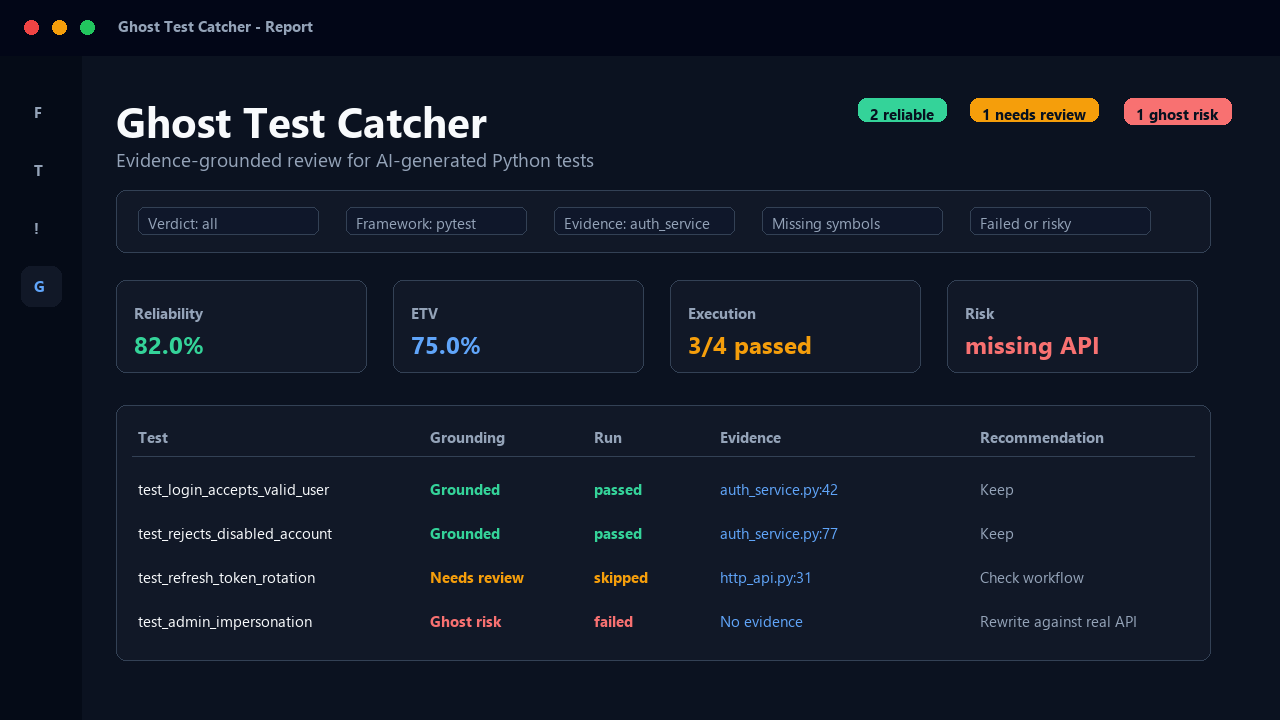
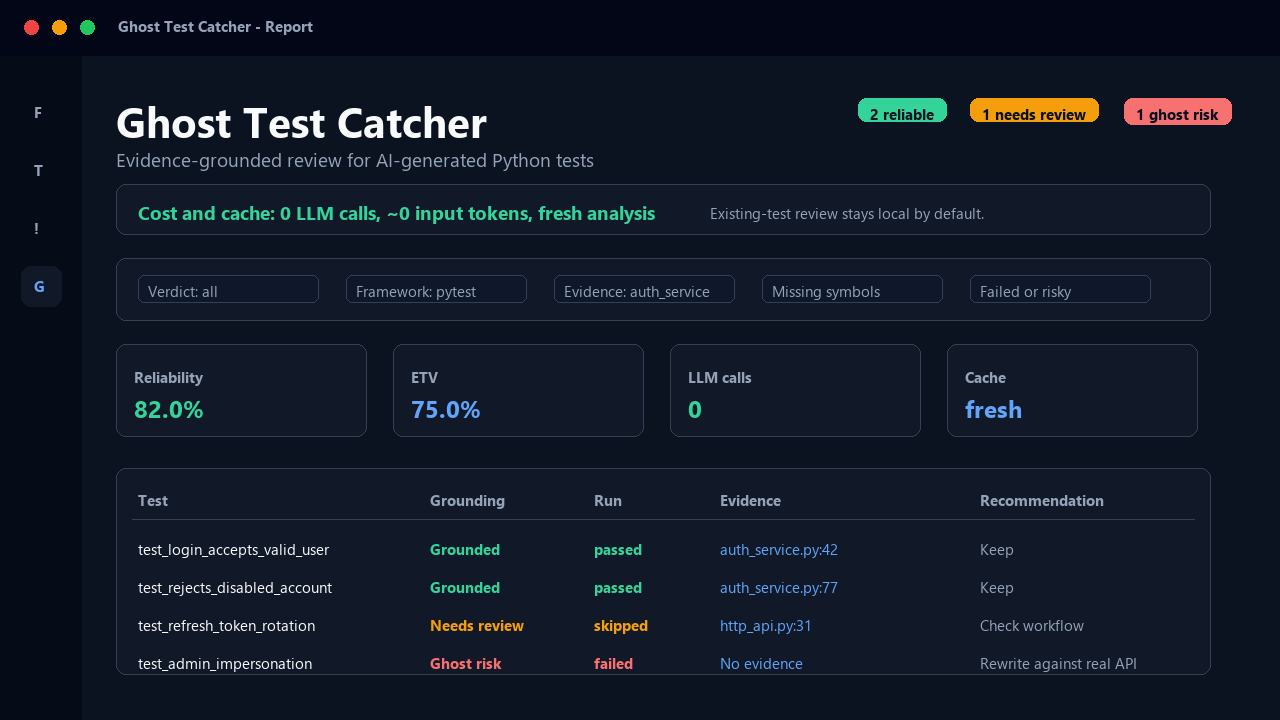
Improve setup detection and package VS Code extension 0.2.1

diff --git a/packages/vscode-extension/extensionCore.js b/packages/vscode-extension/extensionCore.js
@@ -143,10 +143,19 @@ function shellArg(value) {
   return `'${value.replace(/'/g, "'\\''")}'`;
 }
 
-function defaultPythonCandidates(configuredPythonPath) {
+function defaultPythonCandidates(configuredPythonPath, root = "", environment = process.env) {
   const seen = new Set();
   const candidates = [];
-  for (const value of [configuredPythonPath, "python", "python3"]) {
+  const configured = String(configuredPythonPath || "").trim();
+  const explicitConfigured = configured && !isGenericPythonCommand(configured);
+  const values = [
+    ...(explicitConfigured ? [configured] : []),
+    ...localPythonCandidates(root, environment),
+    configured || "python",
+    "python",
+    "python3",
+  ];
+  for (const value of values) {
     const candidate = String(value || "").trim();
     if (!candidate || seen.has(candidate)) {
       continue;
@@ -155,6 +164,47 @@ function defaultPythonCandidates(configuredPythonPath) {
     candidates.push(candidate);
   }
   return candidates;
+}
+
+function localPythonCandidates(root = "", environment = process.env) {
+  const candidates = [];
+  const seen = new Set();
+  const envRoots = [
+    environment?.VIRTUAL_ENV,
+    environment?.CONDA_PREFIX,
+  ];
+  const projectRoots = root
+    ? [".venv", "venv", ".env", "env"].map((name) => path.join(root, name))
+    : [];
+
+  for (const candidateRoot of [...envRoots, ...projectRoots]) {
+    const resolvedRoot = String(candidateRoot || "").trim();
+    if (!resolvedRoot || seen.has(resolvedRoot)) {
+      continue;
+    }
+    seen.add(resolvedRoot);
+    for (const executable of pythonExecutablesInEnvironment(resolvedRoot)) {
+      if (fs.existsSync(executable)) {
+        candidates.push(executable);
+        break;
+      }
+    }
+  }
+  return candidates;
+}
+
+function pythonExecutablesInEnvironment(environmentRoot) {
+  return [
+    path.join(environmentRoot, "Scripts", "python.exe"),
+    path.join(environmentRoot, "Scripts", "python"),
+    path.join(environmentRoot, "bin", "python"),
+    path.join(environmentRoot, "bin", "python3"),
+  ];
+}
+
+function isGenericPythonCommand(command) {
+  const normalized = command.trim().toLowerCase();
+  return normalized === "python" || normalized === "python3";
 }
 
 function setupProfileSettings(profileId) {
@@ -875,6 +925,7 @@ module.exports = {
   mergeSourcePaths,
   nativeTestMessage,
   nativeTestOutcome,
+  localPythonCandidates,
   normalizePath,
   parseTestFunctionLocations,
   percent,

diff --git a/packages/vscode-extension/test/extensionCore.test.js b/packages/vscode-extension/test/extensionCore.test.js
@@ -89,6 +89,46 @@ test("setup helpers produce safe defaults for first-run onboarding", () => {
   assert.deepEqual(core.pypiInstallArgs(), ["-m", "pip", "install", "ghost-test-catcher[ghost]"]);
 });
 
+test("defaultPythonCandidates prefers workspace virtual environments before generic Python", () => {
+  const project = fs.mkdtempSync(path.join(os.tmpdir(), "ghost-python-env-"));
+  const venvScripts = path.join(project, ".venv", "Scripts");
+  fs.mkdirSync(venvScripts, { recursive: true });
+  const venvPython = path.join(venvScripts, "python.exe");
+  fs.writeFileSync(venvPython, "", "utf-8");
+
+  assert.deepEqual(core.defaultPythonCandidates("python", project, {}), [
+    venvPython,
+    "python",
+    "python3",
+  ]);
+});
+
+test("defaultPythonCandidates keeps explicit Python first and detects active envs", () => {
+  const project = fs.mkdtempSync(path.join(os.tmpdir(), "ghost-python-active-env-"));
+  const virtualEnv = path.join(project, "active-venv");
+  const condaEnv = path.join(project, "conda-env");
+  fs.mkdirSync(path.join(virtualEnv, "bin"), { recursive: true });
+  fs.mkdirSync(path.join(condaEnv, "Scripts"), { recursive: true });
+  const virtualEnvPython = path.join(virtualEnv, "bin", "python");
+  const condaPython = path.join(condaEnv, "Scripts", "python.exe");
+  fs.writeFileSync(virtualEnvPython, "", "utf-8");
+  fs.writeFileSync(condaPython, "", "utf-8");
+
+  assert.deepEqual(
+    core.defaultPythonCandidates("C:/Python311/python.exe", project, {
+      VIRTUAL_ENV: virtualEnv,
+      CONDA_PREFIX: condaEnv,
+    }),
+    [
+      "C:/Python311/python.exe",
+      virtualEnvPython,
+      condaPython,
+      "python",
+      "python3",
+    ]
+  );
+});
+
 test("reportTestNames safely reads generated test names", () => {
   assert.deepEqual(core.reportTestNames({ generated_tests: { test_names: ["test_a"] } }), ["test_a"]);
   assert.deepEqual(core.reportTestNames({}), []);

diff --git a/packages/vscode-extension/extension.js b/packages/vscode-extension/extension.js
@@ -1131,7 +1131,7 @@ async function setupGhostTestCatcher(uri) {
   }
 
   const config = getConfig();
-  const candidates = core.defaultPythonCandidates(config.get("pythonPath", "python"));
+  const candidates = core.defaultPythonCandidates(config.get("pythonPath", "python"), root);
   const setupState = await vscode.window.withProgress(
     {
       location: vscode.ProgressLocation.Notification,

diff --git a/tools/generate_vscode_marketplace_assets.py b/tools/generate_vscode_marketplace_assets.py
@@ -112,32 +112,36 @@ def draw_report() -> None:
     tag(draw, (970, 98), "1 needs review", "amber")
     tag(draw, (1124, 98), "1 ghost risk", "red")
 
-    toolbar = (116, 190, 1210, 252)
+    box(draw, (116, 184, 1210, 234), "panel", "border", 10)
+    text(draw, (138, 199), "Cost and cache: 0 LLM calls, ~0 input tokens, fresh analysis", "green", "body_bold")
+    text(draw, (710, 202), "Existing-test review stays local by default.", "muted", "small")
+
+    toolbar = (116, 258, 1210, 320)
     box(draw, toolbar, "panel", "border", 10)
     for i, label in enumerate(["Verdict: all", "Framework: pytest", "Evidence: auth_service", "Missing symbols", "Failed or risky"]):
         x = 138 + i * 208
-        draw.rounded_rectangle((x, 207, x + 180, 234), radius=6, fill="#0f172a", outline=COLORS["border"])
-        text(draw, (x + 10, 212), label, "muted", "small")
+        draw.rounded_rectangle((x, 275, x + 180, 302), radius=6, fill="#0f172a", outline=COLORS["border"])
+        text(draw, (x + 10, 280), label, "muted", "small")
 
     metrics = [
         ("Reliability", "82.0%", "green"),
         ("ETV", "75.0%", "blue"),
-        ("Execution", "3/4 passed", "amber"),
-        ("Risk", "missing API", "red"),
+        ("LLM calls", "0", "green"),
+        ("Cache", "fresh", "blue"),
     ]
     for i, (label, value, color) in enumerate(metrics):
         x = 116 + i * 277
-        box(draw, (x, 280, x + 250, 372), "panel", "border", 10)
-        text(draw, (x + 18, 302), label, "muted", "small_bold")
-        text(draw, (x + 18, 328), value, color, "h2")
+        box(draw, (x, 344, x + 250, 436), "panel", "border", 10)
+        text(draw, (x + 18, 366), label, "muted", "small_bold")
+        text(draw, (x + 18, 392), value, color, "h2")
 
-    table = (116, 405, 1210, 660)
+    table = (116, 468, 1210, 674)
     box(draw, table, "panel", "border", 10)
     headers = ["Test", "Grounding", "Run", "Evidence", "Recommendation"]
     xs = [138, 430, 594, 720, 980]
     for x, header in zip(xs, headers):
-        text(draw, (x, 426), header, "muted", "small_bold")
-    draw.line((132, 456, 1194, 456), fill=COLORS["border"], width=1)
+        text(draw, (x, 489), header, "muted", "small_bold")
+    draw.line((132, 519, 1194, 519), fill=COLORS["border"], width=1)
 
     rows = [
         ("test_login_accepts_valid_user", "Grounded", "passed", "auth_service.py:42", "Keep"),
@@ -145,7 +149,7 @@ def draw_report() -> None:
         ("test_refresh_token_rotation", "Needs review", "skipped", "http_api.py:31", "Check workflow"),
         ("test_admin_impersonation", "Ghost risk", "failed", "No evidence", "Rewrite against real API"),
     ]
-    y = 478
+    y = 538
     for name, grounding, run, evidence, recommendation in rows:
         color = "green" if grounding == "Grounded" else "amber" if grounding == "Needs review" else "red"
         text(draw, (138, y), name, "text", "small")
@@ -153,7 +157,7 @@ def draw_report() -> None:
         text(draw, (594, y), run, "green" if run == "passed" else "amber" if run == "skipped" else "red", "small_bold")
         text(draw, (720, y), evidence, "blue", "small")
         text(draw, (980, y), recommendation, "muted", "small")
-        y += 44
+        y += 38
 
     img.save(MEDIA / "screenshot-report.png")
 

diff --git a/packages/vscode-extension/README.md b/packages/vscode-extension/README.md
@@ -125,7 +125,7 @@ Use the `Analyze with Ghost Test Catcher` run profile from the Testing panel to 
 
 ## Review Workflow
 
-Run `Ghost Test Catcher: Setup` first in a new workspace. Choose the recommended local mode for normal development, static-only mode when reviewing untrusted generated tests, or Docker mode when the team wants execution isolation. Setup updates `ghostTestCatcher.pythonPath`, `ghostTestCatcher.executeTests`, `ghostTestCatcher.executionBackend`, and `ghostTestCatcher.confirmExecution` at workspace scope, then opens Doctor so the result is visible.
+Run `Ghost Test Catcher: Setup` first in a new workspace. Choose the recommended local mode for normal development, static-only mode when reviewing untrusted generated tests, or Docker mode when the team wants execution isolation. Setup checks an explicitly configured Python first, then active `VIRTUAL_ENV` or `CONDA_PREFIX`, then workspace `.venv`, `venv`, `.env`, and `env` folders before falling back to `python` and `python3`. Setup updates `ghostTestCatcher.pythonPath`, `ghostTestCatcher.executeTests`, `ghostTestCatcher.executionBackend`, and `ghostTestCatcher.confirmExecution` at workspace scope, then opens Doctor so the result is visible.
 
 Analysis results are cached per workspace using the project root, test path, source context, settings, and file fingerprints. Valid cached reports are restored after a VS Code reload and are reused by command-palette and Testing panel runs. When a relevant Python file changes, stale diagnostics and cache entries are invalidated.
 
@@ -161,4 +161,4 @@ npm run package
 
 `npm run test:integration` uses `@vscode/test-electron` to download or reuse VS Code, open the fixture workspace in an Extension Development Host, run Doctor, analyze a Python test file, verify diagnostics, and refresh the Testing panel. Set `GHOST_TEST_CATCHER_TEST_PYTHON` when the desired Python executable is not simply `python`.
 
-The package command creates `ghost-test-catcher-0.2.0.vsix`, which can be installed in VS Code with `Extensions: Install from VSIX...`.
+The package command creates `ghost-test-catcher-0.2.1.vsix`, which can be installed in VS Code with `Extensions: Install from VSIX...`.

diff --git a/docs/ghost-test-catcher-release.md b/docs/ghost-test-catcher-release.md
@@ -57,7 +57,7 @@ For local CI parity, run `npm run test:integration:ci`. The wrapper uses `xvfb-r
 ## VSIX Installation Smoke Test
 
 ```bash
-code --install-extension packages/vscode-extension/ghost-test-catcher-0.2.0.vsix --force
+code --install-extension packages/vscode-extension/ghost-test-catcher-0.2.1.vsix --force
 ```
 
 After installation, open a Python repository, open a test file, and run `Ghost Test Catcher: Setup` from the command palette. The setup flow should find the intended Python executable, write workspace settings for the selected execution profile, detect whether `ghost_test_catcher.cli` imports, and open Doctor. The Doctor report should show the resolved project root, configured Python path, successful `ghost_test_catcher.cli` import, source paths, and discovered tests. Then run `Ghost Test Catcher: Analyze Current Test File`. Also select a test file plus a source file in Explorer and run `Ghost Test Catcher: Analyze Selected Files or Folders`. The extension should show diagnostics on risky tests, CodeLens verdicts above tests, and a report panel through `Ghost Test Catcher: Open Last Report`.
@@ -101,7 +101,7 @@ Use `--fail-on ghost_risk` for the first rollout. It blocks only the highest-ris
 ## Release Sequence
 
 1. Run the local verification commands.
-2. Confirm `packages/vscode-extension/ghost-test-catcher-0.2.0.vsix` was rebuilt.
+2. Confirm `packages/vscode-extension/ghost-test-catcher-0.2.1.vsix` was rebuilt.
 3. Install the VSIX locally and run the extension against at least one grounded test and one intentionally ghost-risk test.
 4. Push the branch and confirm GitHub Actions produces Python, calibration, CI gate, and extension packaging results.
 5. Publish the VSIX manually from the Marketplace publisher management page or with `vsce publish` after publisher authentication is configured.

diff --git a/README.md b/README.md
@@ -447,7 +447,7 @@ npm run package
 
 `npm run test:integration` launches VS Code with `@vscode/test-electron`, opens the fixture Python workspace, activates the extension, runs Doctor, analyzes the active test file, checks Ghost Test Catcher diagnostics, and refreshes the Testing panel. Set `GHOST_TEST_CATCHER_TEST_PYTHON` if your desired Python executable is not named `python`.
 
-That produces `ghost-test-catcher-0.2.0.vsix`, installable through `Extensions: Install from VSIX...`.
+That produces `ghost-test-catcher-0.2.1.vsix`, installable through `Extensions: Install from VSIX...`.
 
 The extension package includes Marketplace metadata, a PNG icon, a changelog, and a `.vscodeignore` that excludes local build artifacts.
 The icon is reproducible:

diff --git a/packages/vscode-extension/CHANGELOG.md b/packages/vscode-extension/CHANGELOG.md
@@ -1,9 +1,10 @@
 # Changelog
 
-## Unreleased
+## 0.2.1
 
 - Added visible report and notification cost summaries for LLM calls, estimated input tokens, output token ceilings, and analysis cache hits.
 - Added clearer first-run setup profile details that explain local, static-only, and Docker modes in terms of safety and cost.
+- Added first-run Python detection for active virtual environments, Conda environments, and workspace `.venv`/`venv` folders before generic `python` fallback.
 - Documented that existing-test review in VS Code uses local analysis and optional pytest execution with `0` LLM calls.
 
 ## 0.2.0
